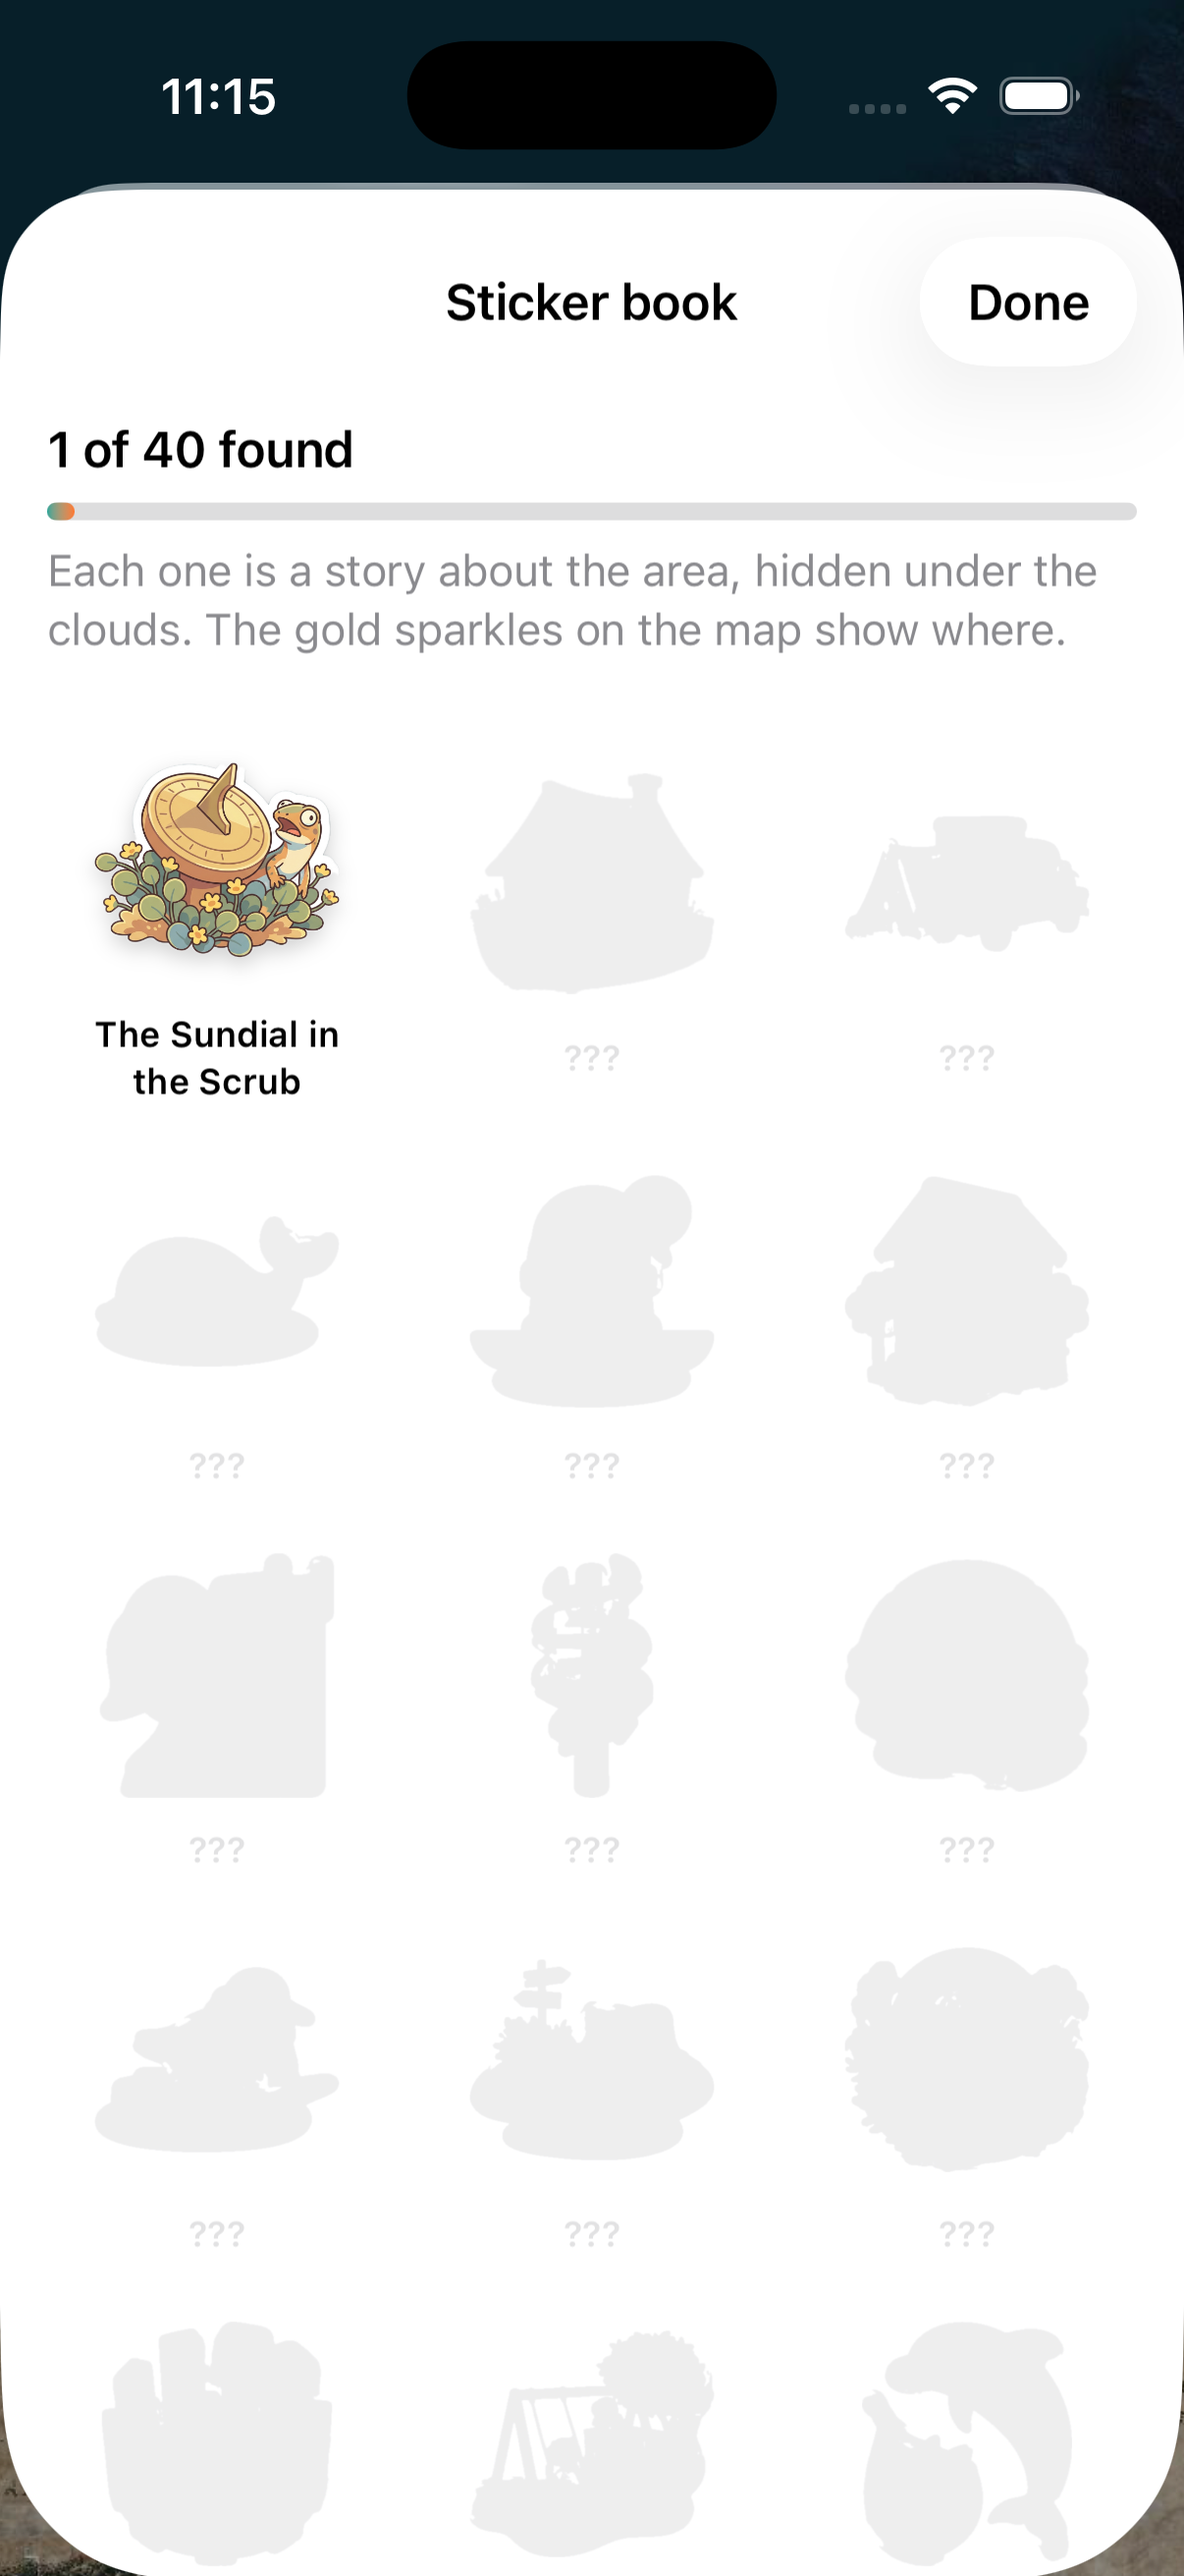
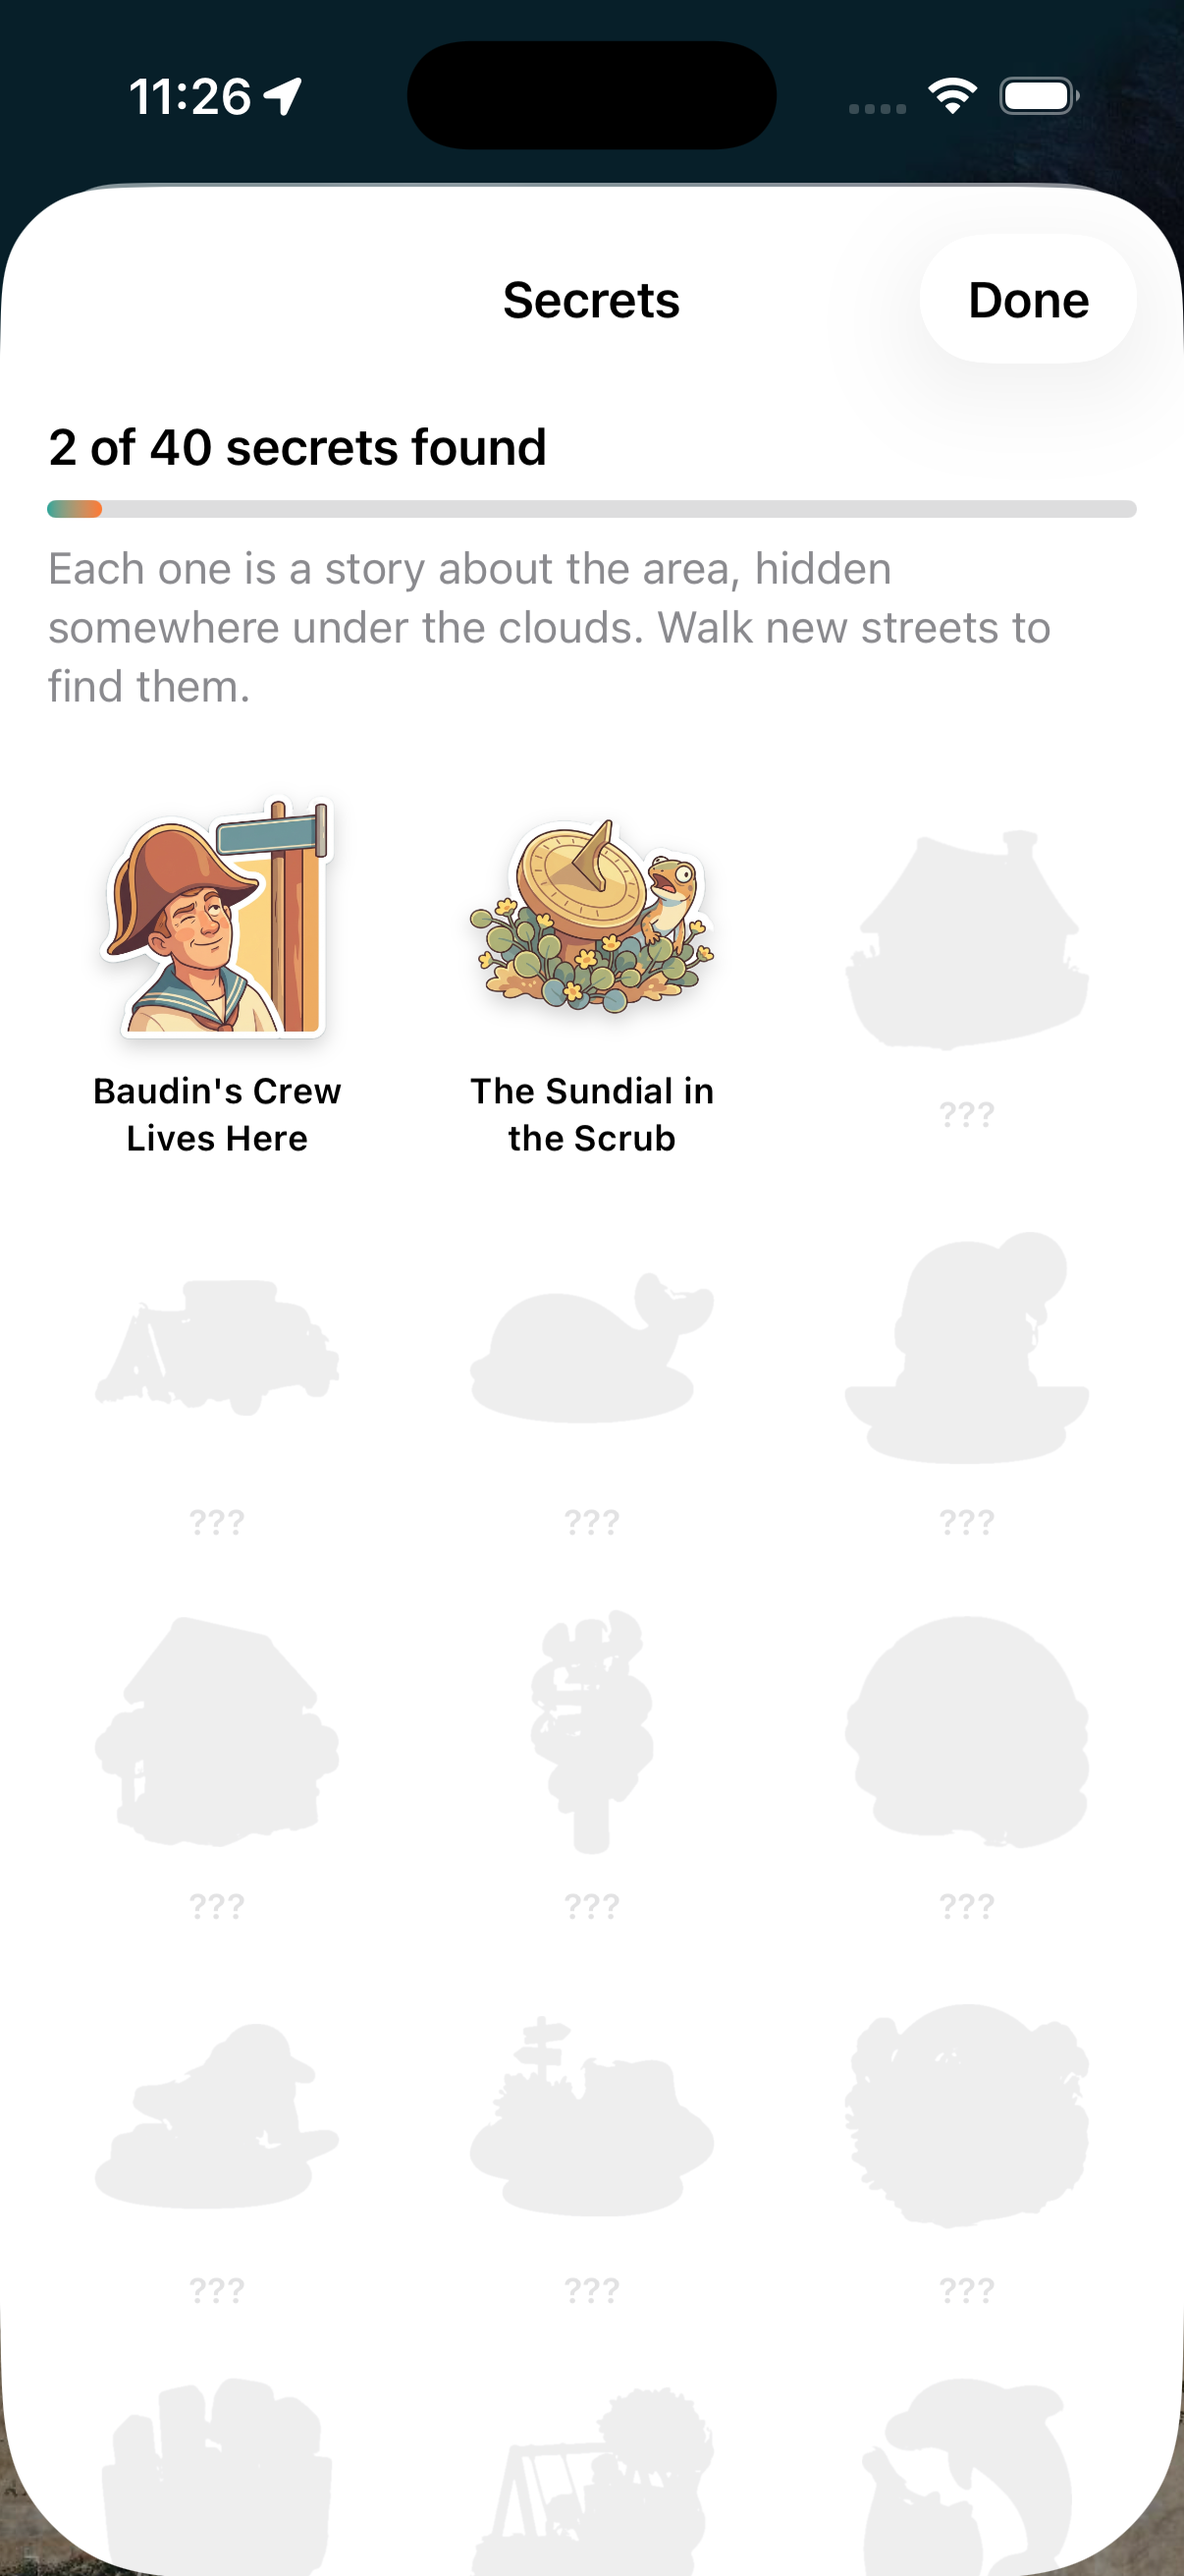
Call them secrets, and stop giving away where they are
- No more gold sparkles over hidden secrets. The clouds give nothing
  away; you find them by walking new streets.
- Everything you see now says secrets: "2 of 40 secrets found", the
  Secrets book, "Secret found" when one pops up, and
  "Secret found: ..." in notifications.

diff --git a/Walkies/Views/Clouds.swift b/Walkies/Views/Clouds.swift
@@ -39,14 +39,10 @@ nonisolated struct CloudField: Sendable {
     var lines: [Line] = []
     /// The suburb's outline, so the dotted roads stop at its edge.
     var outline: [[MKMapPoint]] = []
-    /// Stickers still hidden under the clouds, which twinkle to give you something to aim for.
-    var hints: [MKMapPoint] = []
-    /// A tile's centre-to-corner size in map points, for sizing things to the zoom.
-    var tileRadius = 0.0
 
     init() {}
 
-    init(city: City, hints hidden: [Hex] = []) {
+    init(city: City) {
         let grid = city.grid
         let cover = city.cloudCover()
         let metres = MKMapPointsPerMeterAtLatitude(grid.projection.origin.lat)
@@ -73,8 +69,6 @@ nonisolated struct CloudField: Sendable {
             .sorted { $0.centre.y < $1.centre.y }
         lines = (city.roads ?? []).map { Line(points: $0.points.map { MKMapPoint($0.cl) }, kind: $0.kind) }
         outline = city.boundary.polygons.map { $0.outer.map { MKMapPoint($0.cl) } }
-        hints = hidden.map(centre)
-        tileRadius = hexSize
     }
 
     private static func hash(_ hex: Hex) -> Int {
@@ -235,35 +229,6 @@ private struct CloudPainter {
                 let rect = projection.ellipse(centre: clearing.centre, radius: clearing.radius * grow)
                 guard rect.intersects(visible) else { continue }
                 layer.draw(eraser, in: rect)
-            }
-        }
-
-        drawHints(in: &context)
-    }
-
-    /// A small gold sparkle over each hidden sticker, glinting on its own beat.
-    private func drawHints(in context: inout GraphicsContext) {
-        guard let first = field.hints.first else { return }
-        // Small glints when the whole suburb's on screen, proper sparkles up close.
-        let tile = projection.ellipse(centre: first, radius: field.tileRadius).width / 2
-        let scale = min(1, max(0.35, tile / 40))
-        for (i, hint) in field.hints.enumerated() {
-            let at = projection.point(hint)
-            guard bounds.insetBy(dx: -20, dy: -20).contains(at) else { continue }
-            let beat = 0.5 + 0.5 * sin(clock * 1.6 + Double(i) * 2.399)
-            let size = (9 + 5 * beat) * scale
-            var star = Path()
-            for k in 0..<8 {
-                let angle = Double(k) * .pi / 4 - .pi / 2
-                let r = k.isMultiple(of: 2) ? size : size * 0.28
-                let p = CGPoint(x: at.x + cos(angle) * r, y: at.y + sin(angle) * r)
-                k == 0 ? star.move(to: p) : star.addLine(to: p)
-            }
-            star.closeSubpath()
-            context.drawLayer { glow in
-                glow.addFilter(.shadow(color: Color(red: 1, green: 0.75, blue: 0.2).opacity(0.9), radius: 6))
-                glow.opacity = 0.55 + 0.45 * beat
-                glow.fill(star, with: .color(Color(red: 1, green: 0.86, blue: 0.4)))
             }
         }
     }

diff --git a/Walkies/Views/Stickers.swift b/Walkies/Views/Stickers.swift
@@ -75,17 +75,17 @@ struct StickerBookView: View {
             Group {
                 if stickers.isEmpty {
                     ContentUnavailableView(
-                        "No stickers here yet",
+                        "No secrets here yet",
                         systemImage: "book.closed",
-                        description: Text("There's no lore for this place yet. Geographe and the rest of Busselton have some.")
+                        description: Text("Nobody's written any secrets for this place yet. Geographe and the rest of Busselton have some.")
                     )
                 } else {
                     ScrollView {
                         VStack(alignment: .leading, spacing: 8) {
-                            Text("\(found) of \(stickers.count) found")
+                            Text("\(found) of \(stickers.count) secrets found")
                                 .font(.headline)
                             ProgressBar(value: Double(found) / Double(stickers.count))
-                            Text("Each one is a story about the area, hidden under the clouds. The gold sparkles on the map show where.")
+                            Text("Each one is a story about the area, hidden somewhere under the clouds. Walk new streets to find them.")
                                 .font(.subheadline)
                                 .foregroundStyle(.secondary)
                         }
@@ -108,7 +108,7 @@ struct StickerBookView: View {
                     }
                 }
             }
-            .navigationTitle("Sticker book")
+            .navigationTitle("Secrets")
             .navigationBarTitleDisplayMode(.inline)
             .toolbar {
                 ToolbarItem(placement: .confirmationAction) {
@@ -168,7 +168,7 @@ struct LoreCardView: View {
         ScrollView {
             VStack(spacing: 16) {
                 if isNew {
-                    Text("New sticker")
+                    Text("Secret found")
                         .font(.subheadline.weight(.bold))
                         .textCase(.uppercase)
                         .foregroundStyle(Color.walkiesOrange)
@@ -228,7 +228,7 @@ struct LoreCardView: View {
                     Button {
                         dismiss()
                     } label: {
-                        Text("Into the book").font(.headline).frame(maxWidth: .infinity)
+                        Text("Nice one").font(.headline).frame(maxWidth: .infinity)
                     }
                     .prominentButton()
                     .controlSize(.large)

diff --git a/Walkies/Services/Notifier.swift b/Walkies/Services/Notifier.swift
@@ -1,18 +1,18 @@
 import UIKit
 import UserNotifications
 
-/// Local notifications for stickers found while the phone's in your pocket.
+/// Local notifications for secrets found while the phone's in your pocket.
 enum Notifier {
     static func requestPermission() {
         UNUserNotificationCenter.current().requestAuthorization(options: [.alert, .sound]) { _, _ in }
     }
 
-    /// Only when the app isn't on screen; when it is, the sticker pops up in the app instead.
+    /// Only when the app isn't on screen; when it is, the secret pops up in the app instead.
     static func stickersFound(_ entries: [LoreEntry]) {
         guard UIApplication.shared.applicationState != .active else { return }
         for entry in entries {
             let content = UNMutableNotificationContent()
-            content.title = "New sticker: \(entry.title)"
+            content.title = "Secret found: \(entry.title)"
             content.body = entry.body
             content.sound = .default
             content.userInfo = ["sticker": entry.id]

diff --git a/Walkies/AppModel.swift b/Walkies/AppModel.swift
@@ -104,13 +104,12 @@ final class AppModel {
     /// clouded takes a moment on a big city, so it's only redone when the tiles change.
     @ObservationIgnored private var cachedField: (key: String, field: CloudField)?
 
-    var cloudKey: String { "\(selectedCityID?.uuidString ?? "none")-\(tilesRevision)-\(foundStickers.count)" }
+    var cloudKey: String { "\(selectedCityID?.uuidString ?? "none")-\(tilesRevision)" }
 
     var cloudField: CloudField {
         let key = cloudKey
         if let cachedField, cachedField.key == key { return cachedField.field }
-        let hidden = stickersHere.filter { foundStickers[$0.entry.id] == nil }.map(\.hex)
-        let field = selectedCity.map { CloudField(city: $0, hints: hidden) } ?? CloudField()
+        let field = selectedCity.map(CloudField.init) ?? CloudField()
         cachedField = (key, field)
         return field
     }

diff --git a/Walkies/Views/ContentView.swift b/Walkies/Views/ContentView.swift
@@ -38,6 +38,7 @@ struct ContentView: View {
                     MapButton(systemImage: "gearshape") { showingSettings = true }
                     if !model.stickersHere.isEmpty {
                         MapButton(systemImage: "book.closed.fill") { showingStickers = true }
+                            .accessibilityLabel("Secrets")
                     }
                     Spacer()
                     if model.selectedCity != nil {

diff --git a/README.md b/README.md
@@ -12,7 +12,7 @@ Based on an idea from James.
 - **Walks** keep tracking with the phone locked in your pocket, using "While Using the App" location permission plus the background location mode. Tiles turn orange as you uncover them, and the phone buzzes if the app's open.
 - **Always on** (in Settings, the gear button): with "Always" location permission, walks start by themselves when you're moving on foot and end after 10 minutes without moving. GPS pauses while you're still, and iOS relaunches the app after a few hundred metres if it was closed. Only on-foot points are saved. Without it, you press Start walk.
 - **Walking only**: fixes worse than 30 m accuracy are ignored, anything faster than about 12 km/h (by the GPS's own speed reading) doesn't count, and the phone's motion chip vetoes anything it thinks is cycling or driving, however slow. A spot only counts once two on-foot fixes in a row agree, and gaps over 150 m aren't joined up.
-- **Lore stickers**: 40 bits of local history, Wardandi Noongar heritage and nature for the Busselton area, in `Walkies/Lore/geographe.json` (research notes and sources in `design/lore/`). Each is hidden under a tile: stories about a spot go under the nearest street tile to it, the rest are spread out. Hidden ones twinkle gold through the clouds. Walk over one and you get a pop-up, or a notification if the phone's in your pocket. Found stickers are pinned on the map and kept in the sticker book. The art is made by `scripts/make-stickers.mjs` (Gemini 3 Pro Image, then cut out with Vision by `scripts/cutout.swift`).
+- **Secrets**: 40 bits of local history, Wardandi Noongar heritage and nature for the Busselton area, in `Walkies/Lore/geographe.json` (research notes and sources in `design/lore/`). Each is hidden under a tile, with nothing on the map to give it away: stories about a spot go under the nearest street tile to it, the rest are spread out. Walk over one and you get a pop-up, or a notification if the phone's in your pocket. Found secrets are pinned on the map and kept in the Secrets book, each with its own sticker. In the code they're `LoreEntry` and "stickers". The art is made by `scripts/make-stickers.mjs` (Gemini 3 Pro Image, then cut out with Vision by `scripts/cutout.swift`).
 - **History**: every GPS fix from every walk is kept. A new city is built by replaying all past walks, so if you add a city later, the walks you've already done there count.
 - **Storage** is JSON in the app's Application Support folder. No account, no server.
 
